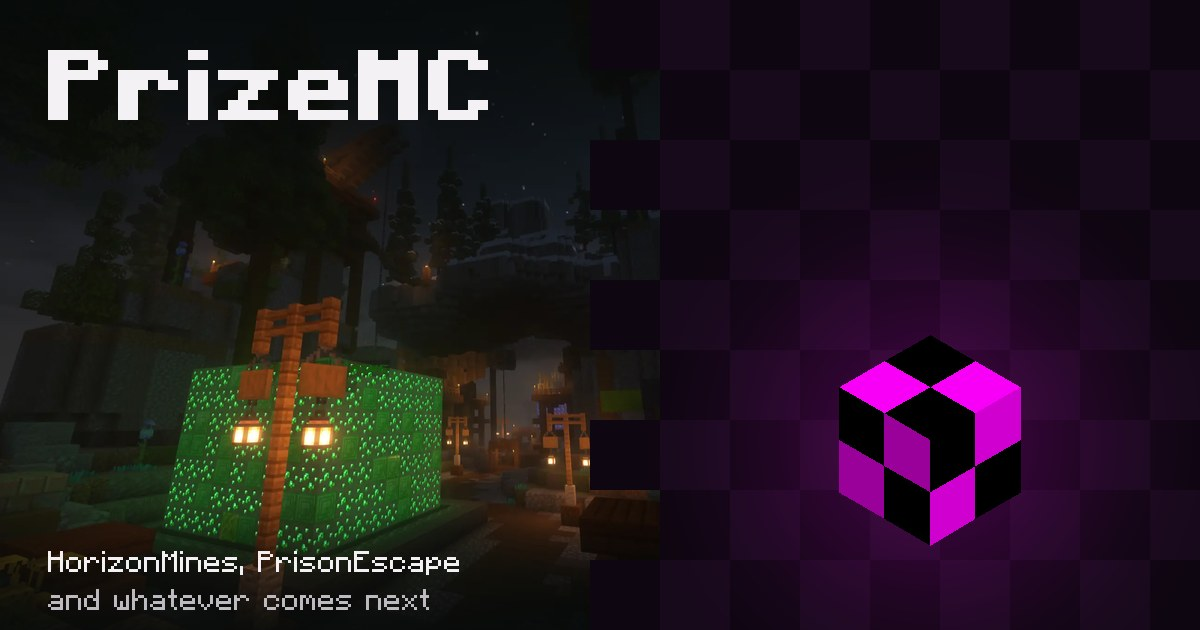
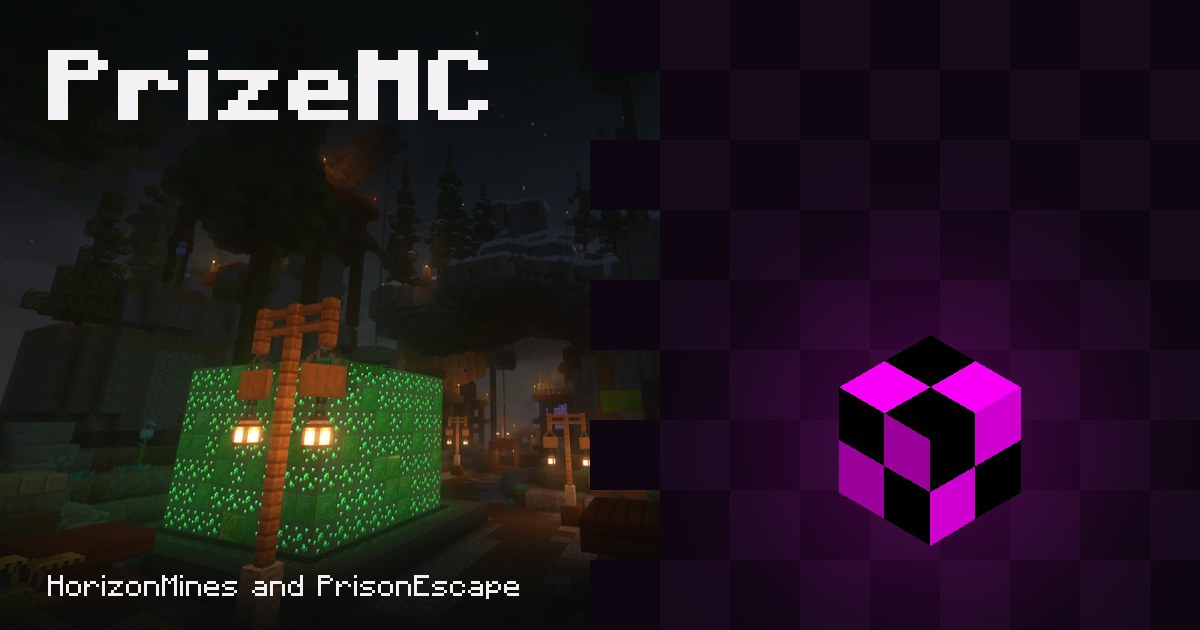
Remove "whatever comes next" wording (#2)
The header and share image now name only HorizonMines and PrisonEscape.

Changed region(s): [[0.0308, 0.8746, 0.4317, 0.9651]]

diff --git a/index.html b/index.html
@@ -34,7 +34,7 @@
   <header class="masthead">
     <div class="masthead__title">
       <h1 class="wordmark">PrizeMC</h1>
-      <p class="strap">The Minecraft network behind HorizonMines, PrisonEscape and whatever comes next.</p>
+      <p class="strap">The Minecraft network behind HorizonMines and PrisonEscape.</p>
     </div>
     <nav class="links" aria-label="Network links">
       <a href="https://stats.prizemc.net">Statistics</a>
